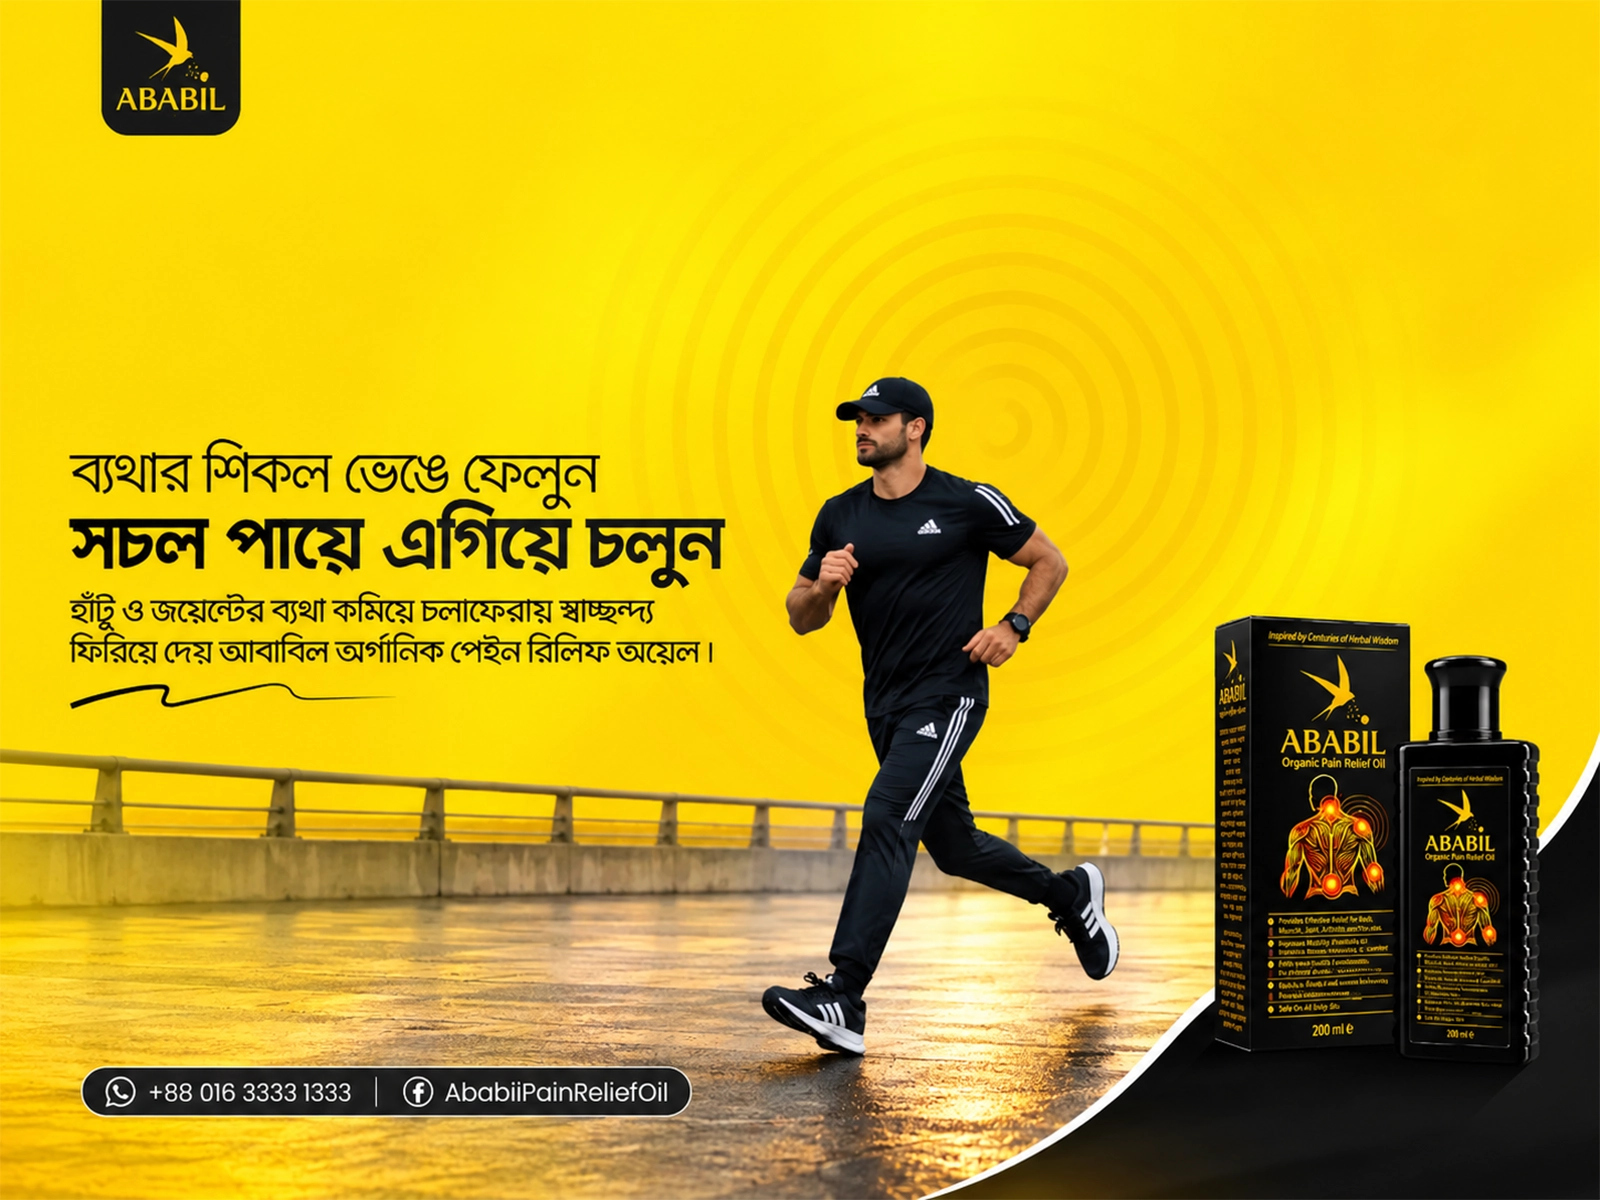
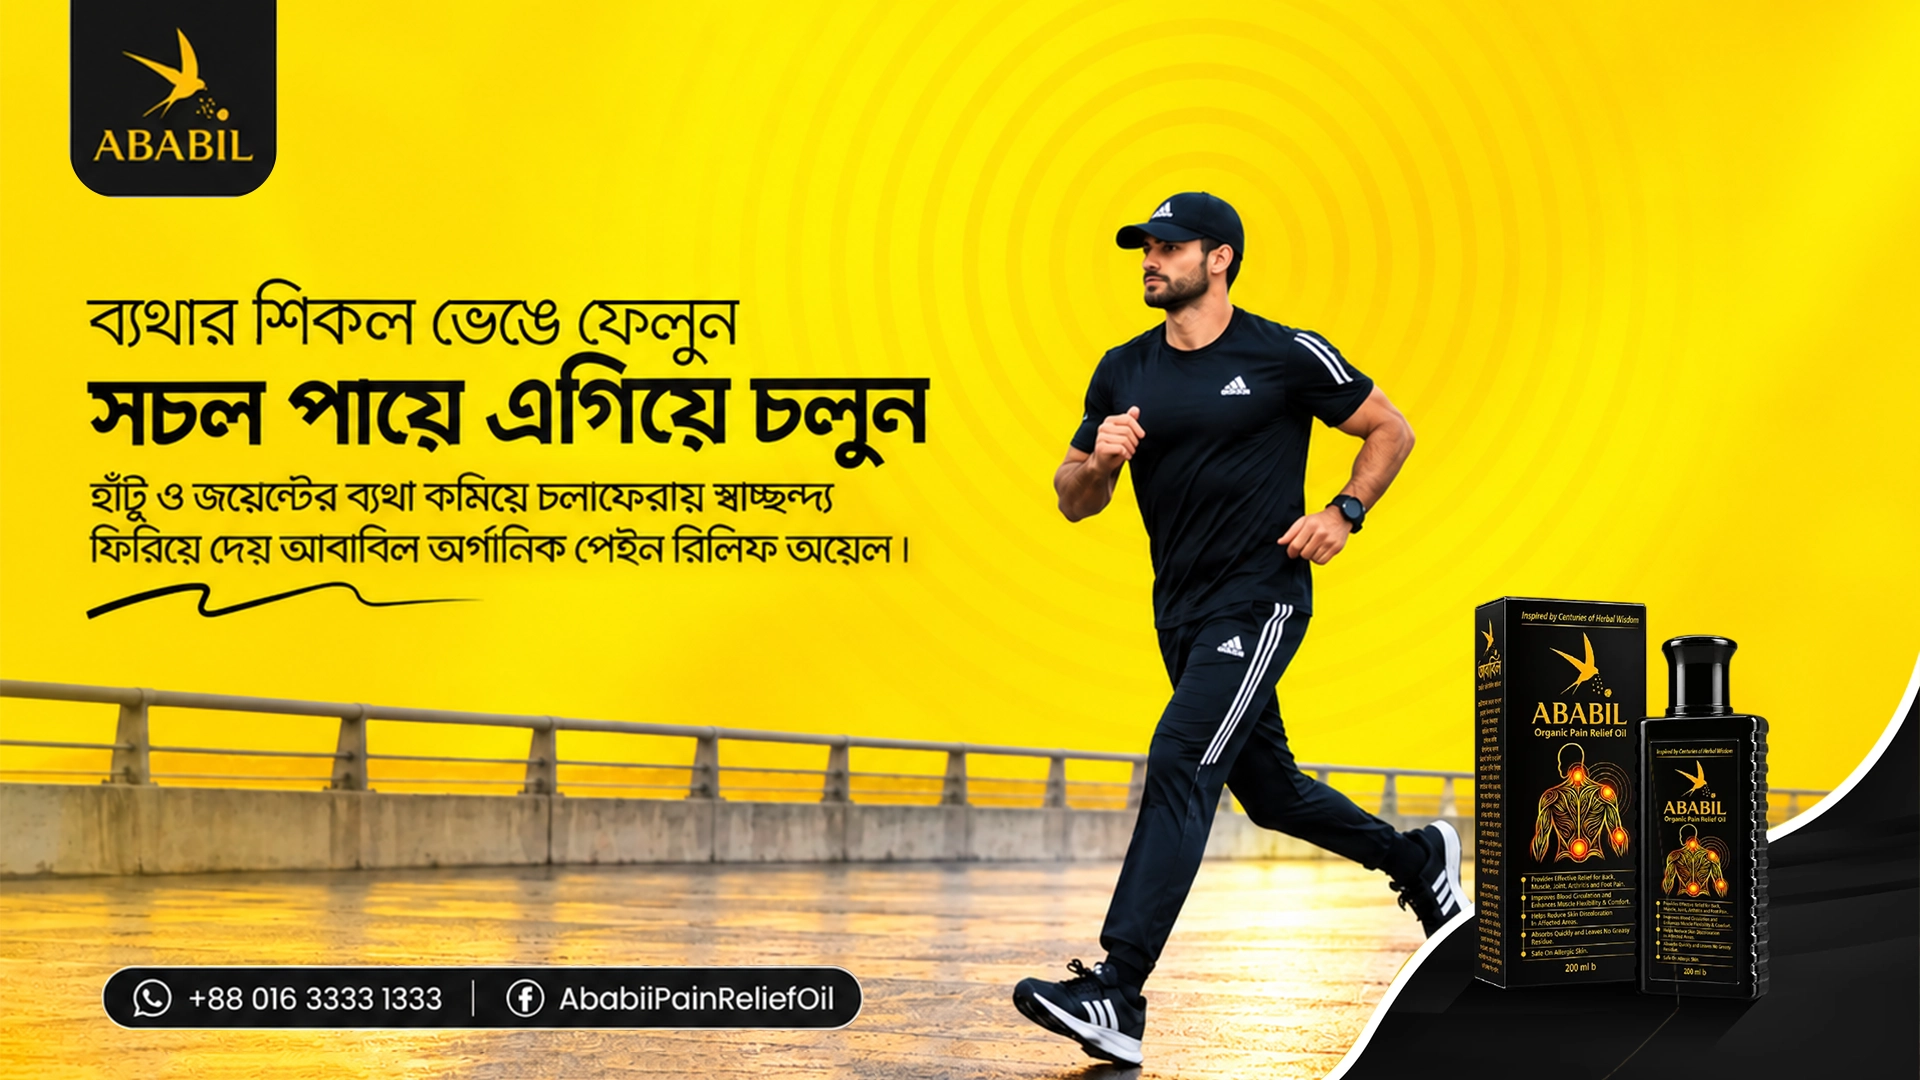
hero section: images placed

diff --git a/resources/js/components/landing/hero-section.tsx b/resources/js/components/landing/hero-section.tsx
@@ -5,47 +5,36 @@ import TapHint from './motion/tap-hint';
 
 interface HeroSlide {
     id: number;
-    imageWebp: string;
-    imageWebpMobile: string;
-    imageJpeg: string;
+    // 2560x800 — desktop (1024px+).
+    imageDesktop: string;
+    // 1600x1200 (4:3 box, object-cover cropped) — tablet (425–1023px).
+    imageTab: string;
+    // 1920x1080 (16:9 box, object-cover cropped) — phones (<425px).
+    imageMobile: string;
     alt: string;
 }
 
 const heroSlides: HeroSlide[] = [
     {
         id: 1,
-        imageWebp: '/images/hero/IMG_3612.webp',
-        imageWebpMobile: '/images/hero/IMG_3612_mobile.webp',
-        imageJpeg: '/images/hero/IMG_3612.JPEG',
-        alt: 'আবাবিল অর্গানিক পেইন রিলিফ অয়েল ব্যানার ১',
+        imageDesktop: '/images/hero/IMG_3616_desktop.webp',
+        imageTab: '/images/hero/001_tab.webp',
+        imageMobile: '/images/hero/001_mobile.webp',
+        alt: 'বয়স বাড়লেও গতি রবে — আবাবিল অর্গানিক পেইন রিলিফ অয়েল',
     },
     {
         id: 2,
-        imageWebp: '/images/hero/IMG_3613.webp',
-        imageWebpMobile: '/images/hero/IMG_3613_mobile.webp',
-        imageJpeg: '/images/hero/IMG_3613.JPEG',
-        alt: 'আবাবিল অর্গানিক পেইন রিলিফ অয়েল ব্যানার ২',
+        imageDesktop: '/images/hero/IMG_3614_desktop.webp',
+        imageTab: '/images/hero/002_tab.webp',
+        imageMobile: '/images/hero/002_mobile.webp',
+        alt: 'সচল পায়ে এগিয়ে চলুন — আবাবিল অর্গানিক পেইন রিলিফ অয়েল',
     },
     {
         id: 3,
-        imageWebp: '/images/hero/IMG_3614.webp',
-        imageWebpMobile: '/images/hero/IMG_3614_mobile.webp',
-        imageJpeg: '/images/hero/IMG_3614.JPEG',
-        alt: 'আবাবিল অর্গানিক পেইন রিলিফ অয়েল ব্যানার ৩',
-    },
-    {
-        id: 4,
-        imageWebp: '/images/hero/IMG_3615.webp',
-        imageWebpMobile: '/images/hero/IMG_3615_mobile.webp',
-        imageJpeg: '/images/hero/IMG_3615.JPEG',
-        alt: 'আবাবিল অর্গানিক পেইন রিলিফ অয়েল ব্যানার ৪',
-    },
-    {
-        id: 5,
-        imageWebp: '/images/hero/IMG_3616.webp',
-        imageWebpMobile: '/images/hero/IMG_3616_mobile.webp',
-        imageJpeg: '/images/hero/IMG_3616.JPEG',
-        alt: 'আবাবিল অর্গানিক পেইন রিলিফ অয়েল ব্যানার ৫',
+        imageDesktop: '/images/hero/IMG_3615_desktop.webp',
+        imageTab: '/images/hero/003_tab.webp',
+        imageMobile: '/images/hero/003_mobile.webp',
+        alt: 'শতবর্ষের ভেষজ রত্ন — আবাবিলের ব্যথামুক্তির যত্ন',
     },
 ];
 
@@ -118,10 +107,9 @@ export default function HeroSection() {
                 className="pointer-events-none absolute inset-0 z-10 bg-[radial-gradient(ellipse_at_top,transparent_0%,rgb(120,72,0,0.15)_100%)]"
             />
 
-            {/* Slider Container — a taller 4:3 crop on mobile (<425px, at
-                least ~1/3 of the viewport height), a shorter 16:9 crop on
-                tablet (425–1023px), and the banner's native 2560:800 ratio
-                on desktop (1024px+) */}
+            {/* Slider Container — a taller 4:3 crop on mobile (<425px), a
+                16:9 crop on tablet (425–1023px), and the wide 2560:800
+                banner ratio on desktop (1024px+) */}
             <div className="relative aspect-[4/3] w-full overflow-hidden min-[425px]:aspect-[16/9] lg:aspect-[2560/800]">
                 <AnimatePresence initial={false} custom={direction} mode="sync">
                     <motion.div
@@ -150,16 +138,17 @@ export default function HeroSection() {
                             >
                                 <picture className="size-full">
                                     <source
-                                        media="(max-width: 1023px)"
-                                        srcSet={currentSlide.imageWebpMobile}
+                                        media="(max-width: 424px)"
+                                        srcSet={currentSlide.imageMobile}
                                         type="image/webp"
                                     />
                                     <source
-                                        srcSet={currentSlide.imageWebp}
+                                        media="(max-width: 1023px)"
+                                        srcSet={currentSlide.imageTab}
                                         type="image/webp"
                                     />
                                     <img
-                                        src={currentSlide.imageJpeg}
+                                        src={currentSlide.imageDesktop}
                                         alt={currentSlide.alt}
                                         loading={
                                             activeIndex === 0 ? 'eager' : 'lazy'
